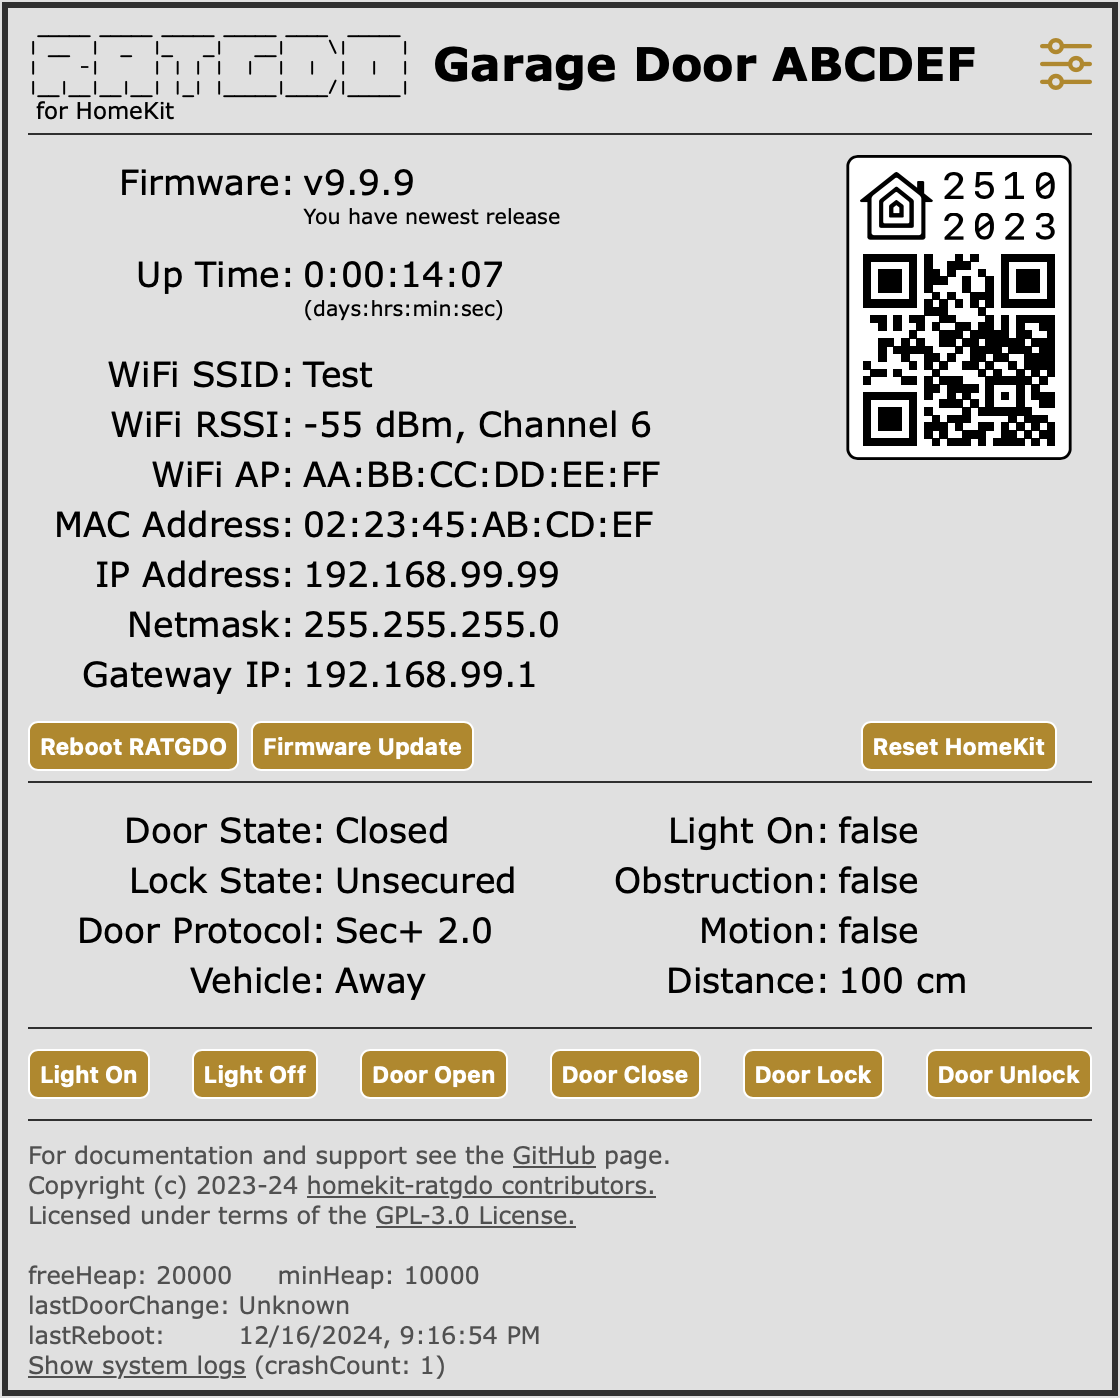
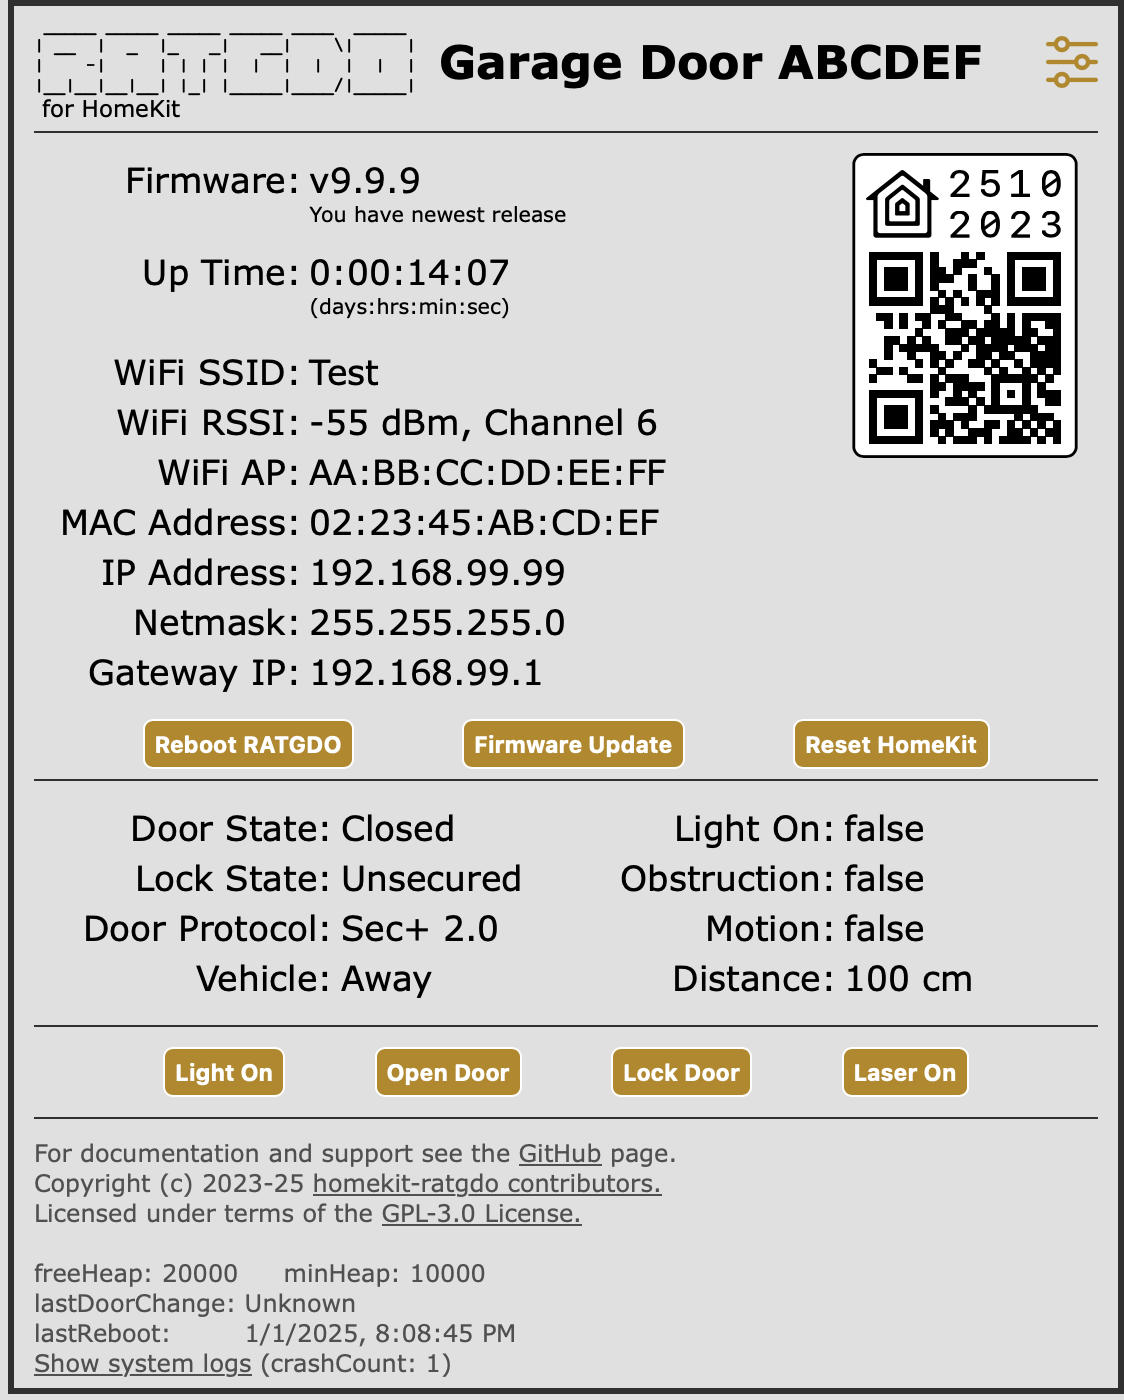
Add user setting for parking assist laser duration. Update README, CHANGELOG, webpage screen shots

Changed region(s): [[0.0, 0.0, 1.0, 1.0]]

diff --git a/src/www/index.html b/src/www/index.html
@@ -2,7 +2,7 @@
 <html lang="en">
 
 <head>
-  <!--  Copyright (c) 2023-24 David Kerr, https://github.com/dkerr64 -->
+  <!--  Copyright (c) 2023-25 David Kerr, https://github.com/dkerr64 -->
   <meta charset="UTF-8">
   <meta name="viewport" content="width=device-width, initial-scale=1.0, maximum-scale=1.0, user-scalable=1">
   <meta name="apple-mobile-web-app-title" content="RATDGO">
@@ -37,7 +37,7 @@
         <div style="float:right;vertical-align: middle; padding-left: 0; padding-right: 0; cursor: pointer;">
           <img id="settings-icon" src="settings-sliders.svg?v=CRC-32" alt="Settings" style="width:1.5em;height:1.5em;">
           <img id="main-icon" src="garage-car.svg?v=CRC-32" alt="Homepage" onclick="history.back()"
-            style="display:none; width:1.5em;height:1.5em;">
+            style="display:none; width:1.5em; height:1.5em;">
         </div>
       </div>
       <!-- Main section of page ------------------------------------------------------------------>
@@ -188,7 +188,7 @@
             <table class="settings">
               <tr>
                 <td style="font-size: 0.65em;"><u>No reboot required:</u></td>
-                <td></td>
+                <td style="width: 70%;"></td>
               </tr>
               <tr>
                 <td class="label">Name:</td>
@@ -274,13 +274,29 @@
                 </td>
               </tr>
               <tr id="laserSetting" style="display:none;">
-                <td class="label">Park Assist Laser:</td>
+                <td class="label">Laser:</td>
                 <td>&nbsp;
                   <input type="checkbox" id="laserEnabled" name="laserEnabled" value="no"
                     onchange="enableLaser(this.checked)">
                   <label for="laserEnabled">Enabled</label>
                   <input type="checkbox" id="laserHomeKit" name="laserHomeKit" value="no" disabled>
                   <label for="laserHomeKit">HomeKit Light Switch</label>
+                </td>
+              </tr>
+              <tr>
+                <td></td>
+                <td>
+                  <table class="settings" id="parkAssist" style="display: none;">
+                    <tr>
+                      <td class="label">Assist Duration:</td>
+                      <td>&nbsp;
+                        <input type="range" min="0" max="300" value="60" id="assistDuration" name="assistDuration"
+                          class="slider" style="width:100px;">
+                        <span style="vertical-align: middle;"><span
+                            id="assistValue"></span>&nbsp;Secs</span>
+                      </td>
+                    </tr>
+                  </table>
                 </td>
               </tr>
               <tr>
@@ -423,7 +439,7 @@
       <div class="footer">
         <p style="margin:0px;">For documentation and support see the <a
             href="https://github.com/ratgdo/homekit-ratgdo32">GitHub</a>
-          page.<br>Copyright (c) 2023-24 <a
+          page.<br>Copyright (c) 2023-25 <a
             href="https://github.com/ratgdo/homekit-ratgdo32/graphs/contributors">homekit-ratgdo
             contributors.</a><br>Licensed under terms of the <a
             href="https://www.gnu.org/licenses/gpl-3.0.en.html">GPL-3.0
@@ -630,7 +646,14 @@
     vDistSlider.oninput = function () {
       vDistText1.innerHTML = this.value;
       vDistText2.innerHTML = Math.round(this.value / .254) / 10;
-    }
+    };
+
+    PAslider = document.getElementById("assistDuration");
+    PAtext = document.getElementById("assistValue");
+    PAtext.innerHTML = PAslider.value;
+    PAslider.oninput = function () {
+      PAtext.innerHTML = this.value;
+    };
   </script>
 </body>
 

diff --git a/src/www/functions.js b/src/www/functions.js
@@ -1,7 +1,7 @@
 /***********************************************************************
  * homekit-ratgdo web page javascript functions
  *
- * Copyright (c) 2023-24 David Kerr, https://github.com/dkerr64
+ * Copyright (c) 2023-25 David Kerr, https://github.com/dkerr64
  *
  */
 
@@ -131,6 +131,7 @@ function toggleSyslog() {
 function enableLaser(value) {
     document.getElementById('laserHomeKit').disabled = !value;
     document.getElementById("laserButton").style.display = (value) ? "inline-block" : "none";
+    document.getElementById("parkAssist").style.display = (value) ? "table-row" : "none";
 }
 
 // Show or hide the static IP fields
@@ -235,9 +236,14 @@ function setElementsFromStatus(status) {
                 document.getElementById(key).checked = value;
                 document.getElementById("laserButton").style.display = (value) ? "inline-block" : "none";
                 document.getElementById("laserHomeKit").disabled = !value;
+                document.getElementById("parkAssist").style.display = (value) ? "table-row" : "none";
                 break;
             case "laserHomeKit":
                 document.getElementById(key).checked = value;
+                break;
+            case "assistDuration":
+                document.getElementById(key).value = value;
+                document.getElementById("assistValue").innerHTML = value;
                 break;
             case "firmwareVersion":
                 document.getElementById(key).innerHTML = value;
@@ -833,6 +839,9 @@ async function saveSettings() {
     const laserEnabled = (document.getElementById("laserEnabled").checked) ? '1' : '0';
     const laserHomeKit = (document.getElementById("laserHomeKit").checked) ? '1' : '0';
 
+    let assistDuration = Math.max(Math.min(parseInt(document.getElementById("assistDuration").value), 300), 0);
+    if (isNaN(assistDuration)) assistDuration = 0;
+
     const syslogEn = (document.getElementById("syslogEn").checked) ? '1' : '0';
     let syslogIP = document.getElementById("syslogIP").value.substring(0, 15);
     if (syslogIP.length == 0) syslogIP = serverStatus.syslogIP;
@@ -873,6 +882,7 @@ async function saveSettings() {
         "vehicleThreshold", vehicleThreshold,
         "laserEnabled", laserEnabled,
         "laserHomeKit", laserHomeKit,
+        "assistDuration", assistDuration,
         "motionTriggers", motionTriggers,
         "LEDidle", LEDidle,
         "staticIP", staticIP,

diff --git a/src/config.h b/src/config.h
@@ -3,7 +3,7 @@
  * https://ratcloud.llc
  * https://github.com/PaulWieland/ratgdo
  *
- * Copyright (c) 2023-24 David A Kerr... https://github.com/dkerr64/
+ * Copyright (c) 2023-25 David A Kerr... https://github.com/dkerr64/
  * All Rights Reserved.
  * Licensed under terms of the GPL-3.0 License.
  *
@@ -68,6 +68,7 @@ constexpr char cfg_syslogPort[] = "syslogPort";
 constexpr char cfg_vehicleThreshold[] = "vehicleThreshold";
 constexpr char cfg_laserEnabled[] = "laserEnabled";
 constexpr char cfg_laserHomeKit[] = "laserHomeKit";
+constexpr char cfg_assistDuration[] = "assistDuration";
 
 constexpr char nvram_messageLog[] = "messageLog";
 constexpr char nvram_id_code[] = "id_code";
@@ -136,6 +137,7 @@ public:
     int getVehicleThreshold() { return std::get<int>(get(cfg_vehicleThreshold)); };
     bool getLaserEnabled() { return std::get<bool>(get(cfg_laserEnabled)); };
     bool getLaserHomeKit() { return std::get<bool>(get(cfg_laserHomeKit)); };
+    int getAssistDuration() { return std::get<int>(get(cfg_assistDuration)); };
 };
 extern userSettings *userConfig;
 

diff --git a/src/web.cpp b/src/web.cpp
@@ -3,7 +3,7 @@
  * https://ratcloud.llc
  * https://github.com/PaulWieland/ratgdo
  *
- * Copyright (c) 2023-24 David A Kerr... https://github.com/dkerr64/
+ * Copyright (c) 2023-25 David A Kerr... https://github.com/dkerr64/
  * All Rights Reserved.
  * Licensed under terms of the GPL-3.0 License.
  *
@@ -153,7 +153,7 @@ uint8_t subscriptionCount = 0;
 
 SemaphoreHandle_t jsonMutex = NULL;
 
-#define JSON_BUFFER_SIZE 1280
+#define JSON_BUFFER_SIZE 2048
 char *json = NULL;
 
 #define DOOR_STATE(s) (s == 0) ? "Open" : (s == 1) ? "Closed"  \
@@ -501,6 +501,7 @@ void handle_status()
     }
     ADD_BOOL(json, cfg_laserEnabled, userConfig->getLaserEnabled());
     ADD_BOOL(json, cfg_laserHomeKit, userConfig->getLaserHomeKit());
+    ADD_INT(json, cfg_assistDuration, userConfig->getAssistDuration());
     END_JSON(json);
 
     // send JSON straight to serial port

diff --git a/src/utilities.cpp b/src/utilities.cpp
@@ -3,7 +3,7 @@
  * https://ratcloud.llc
  * https://github.com/PaulWieland/ratgdo
  *
- * Copyright (c) 2023-24 David A Kerr... https://github.com/dkerr64/
+ * Copyright (c) 2023-25 David A Kerr... https://github.com/dkerr64/
  * All Rights Reserved.
  * Licensed under terms of the GPL-3.0 License.
  *
@@ -185,6 +185,7 @@ void load_all_config_settings()
     RINFO(TAG, "   vehicleThreshold:    %d", userConfig->getVehicleThreshold());
     RINFO(TAG, "   laserEnabled:        %s", userConfig->getLaserEnabled() ? "true" : "false");
     RINFO(TAG, "   laserHomeKit:        %s", userConfig->getLaserHomeKit() ? "true" : "false");
+    RINFO(TAG, "   assistDuration:      %d", userConfig->getAssistDuration());
     RINFO(TAG, "RFC952 device hostname: %s", device_name_rfc952);
 
 #ifdef NTP_CLIENT

diff --git a/src/config.cpp b/src/config.cpp
@@ -3,7 +3,7 @@
  * https://ratcloud.llc
  * https://github.com/PaulWieland/ratgdo
  *
- * Copyright (c) 2023-24 David A Kerr... https://github.com/dkerr64/
+ * Copyright (c) 2023-25 David A Kerr... https://github.com/dkerr64/
  * All Rights Reserved.
  * Licensed under terms of the GPL-3.0 License.
  *
@@ -219,6 +219,7 @@ userSettings::userSettings()
         {cfg_vehicleThreshold, {false, false, 100, helperVehicleThreshold}}, // call fn to set globals
         {cfg_laserEnabled, {false, false, false, helperLaser}},
         {cfg_laserHomeKit, {false, false, true, helperLaser}},
+        {cfg_assistDuration, {false, false, 60, NULL}},
     };
 }
 

diff --git a/src/vehicle.h b/src/vehicle.h
@@ -3,7 +3,7 @@
  * https://ratcloud.llc
  * https://github.com/PaulWieland/ratgdo
  *
- * Copyright (c) 2023-24 David A Kerr... https://github.com/dkerr64/
+ * Copyright (c) 2023-25 David A Kerr... https://github.com/dkerr64/
  * All Rights Reserved.
  * Licensed under terms of the GPL-3.0 License.
  *
@@ -14,7 +14,6 @@
 #include <stdint.h>
 
 #define PRESENCE_DETECT_DURATION (5 * 60 * 1000) // how long to calculate presence after door state change
-#define PARKING_ASSIST_TIMEOUT (60 * 1000) // how long to keep laser on for parking assist.
 
 extern void setup_vehicle();
 extern void vehicle_loop();

diff --git a/src/vehicle.cpp b/src/vehicle.cpp
@@ -167,7 +167,8 @@ void setArriveDepart(bool vehiclePresent)
             vehicleDeparting = false;
             vehicle_motion_timer = lastChangeAt + MOTION_TIMER_DURATION;
             strlcpy(vehicleStatus, "Arriving", sizeof(vehicleStatus));
-            laser.flash(PARKING_ASSIST_TIMEOUT);
+            if (userConfig->getAssistDuration() > 0)
+                laser.flash(userConfig->getAssistDuration() * 1000);
             notify_homekit_vehicle_arriving(vehicleArriving);
         }
     }

diff --git a/README.md b/README.md
@@ -71,7 +71,7 @@ When you first add the device to HomeKit a number of accessories are added:
 * Parking assist laser _light switch_. Only on ratgdo32-disco boards.
 
 Vehicle arrival and departing sensors are only triggered if vehicle motion is detected within 5 minutes of door opening or closing. The parking assist
-laser is activated for one minute when vehicle arrival is detected.
+laser is activated when vehicle arrival is detected.
 
 See below for instructions on setting the distance threshold for triggering vehicle presence.
 
@@ -163,6 +163,19 @@ Ratgdo32-disco boards detect vehicle arrival, departure and presence based on di
 reported in vehicle distance when there is no vehicle present (the approximate distance to the floor) and when the vehicle is parked (the approximate
 distance to the vehicle roof or hood).  Set the vehicle distance slider to between these these two values.  Measured distance can fluctuate so allow
 for this when setting the value.
+
+> [!IMPORTANT]
+> Take care when installing the ratgdo32-disco board that the sensor is not pointing at glass (e.g. your vehicle windshield). You may need tilt the board
+> to point towards the vehicle roof.  If you get unreliable results, you should also remove the yellow sticker that may be on the sensor to protect
+> it from dust during manufacture and shipping.
+
+### Laser
+
+If you have the parking assist laser accessory installed, select this option to enable support and optionally add HomeKit light switch accessory
+to allow for manual or HomeKit automation control.
+
+When enabled, you can configure how long the laser remains on during parking assist by selecting a value from zero to 300 seconds (5 minutes). Selecting
+zero disables parking assist laser.  Parking assist is triggered if an arriving vehicle is detected with 5 minutes of the door opening or closing.
 
 ### Door Protocol
 
@@ -433,4 +446,4 @@ this firmware would never have been necessary.
 
 [Garage icons](https://www.flaticon.com/free-icons/garage) created by Creative Squad - Flaticon
 
-Copyright (c) 2023-24 HomeKit-ratgdo32 [contributors](https://github.com/ratgdo/homekit-ratgdo32/graphs/contributors).
+Copyright (c) 2023-25 HomeKit-ratgdo32 [contributors](https://github.com/ratgdo/homekit-ratgdo32/graphs/contributors).

diff --git a/CHANGELOG.md b/CHANGELOG.md
@@ -4,6 +4,21 @@
 
 All notable changes to `homekit-ratgdo32` will be documented in this file. This project tries to adhere to [Semantic Versioning](http://semver.org/).
 
+## v3.0.5 (2025-01-05)
+
+### What's Changed
+
+* Feature: Add user setting to enable/disable parking assist laser, and set duration of assist laser.
+* Bugfix: Remove multiple copies of web page content from the firmware binary.
+* Bugfix: Use 64-bit integer to handle milliseconds since last boot.
+* Bugfix: Handle more possible return codes from vehicle distance sensor.
+* Bugfix: Door status incorrectly reported to HomeKit if close requested for already closed door (Issue #28).
+* Updated copyright statement(s) to include year 2025.
+
+### Known Issues
+
+* Still testing... Future updates MAY include breaking changes requiring a flash erase and re-upload.
+
 ## v3.0.4 (2024-12-21)
 
 ### What's Changed
